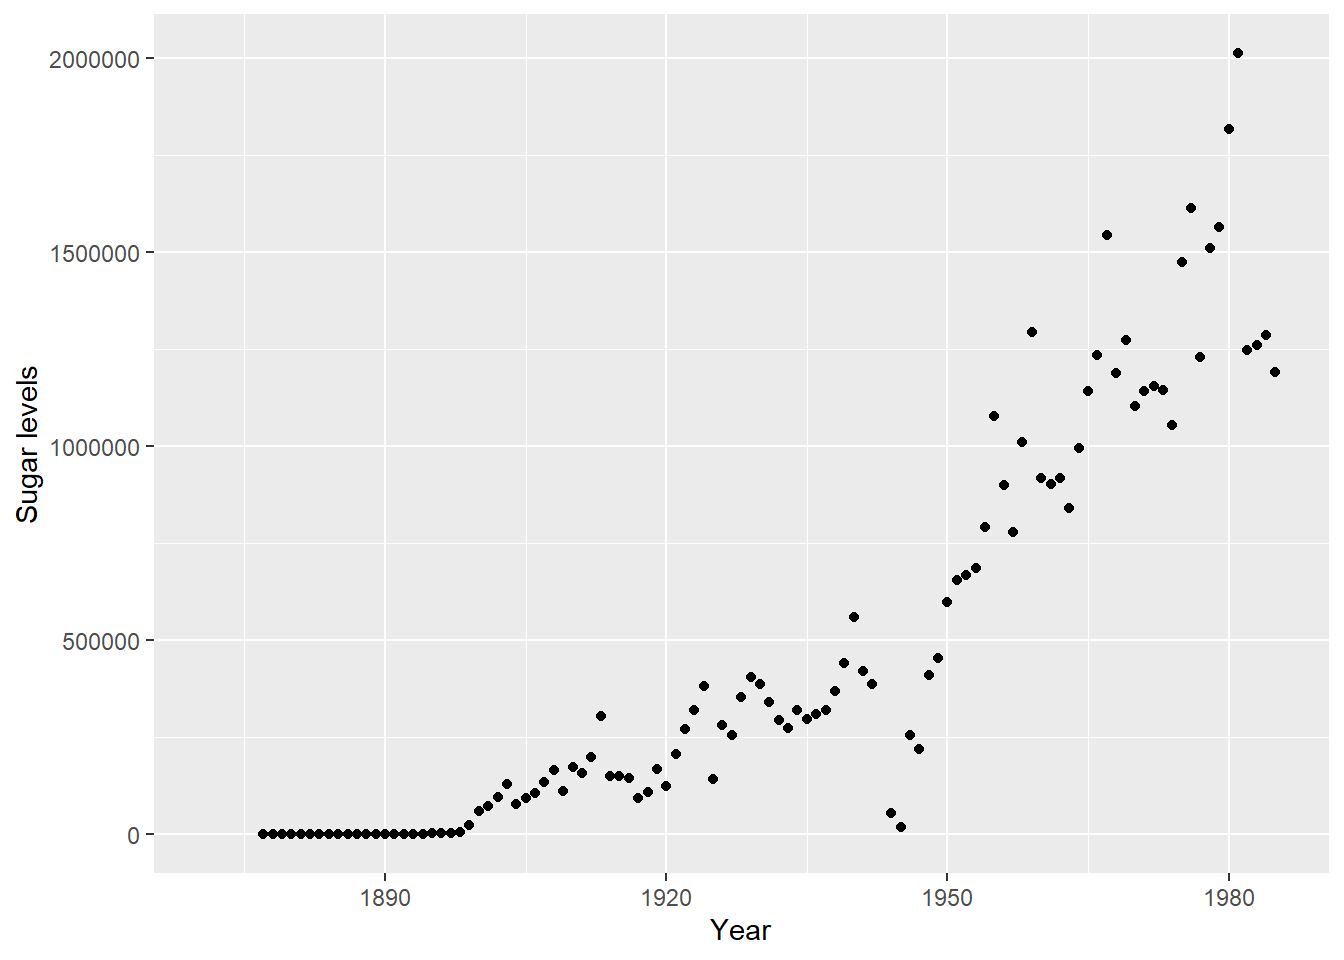
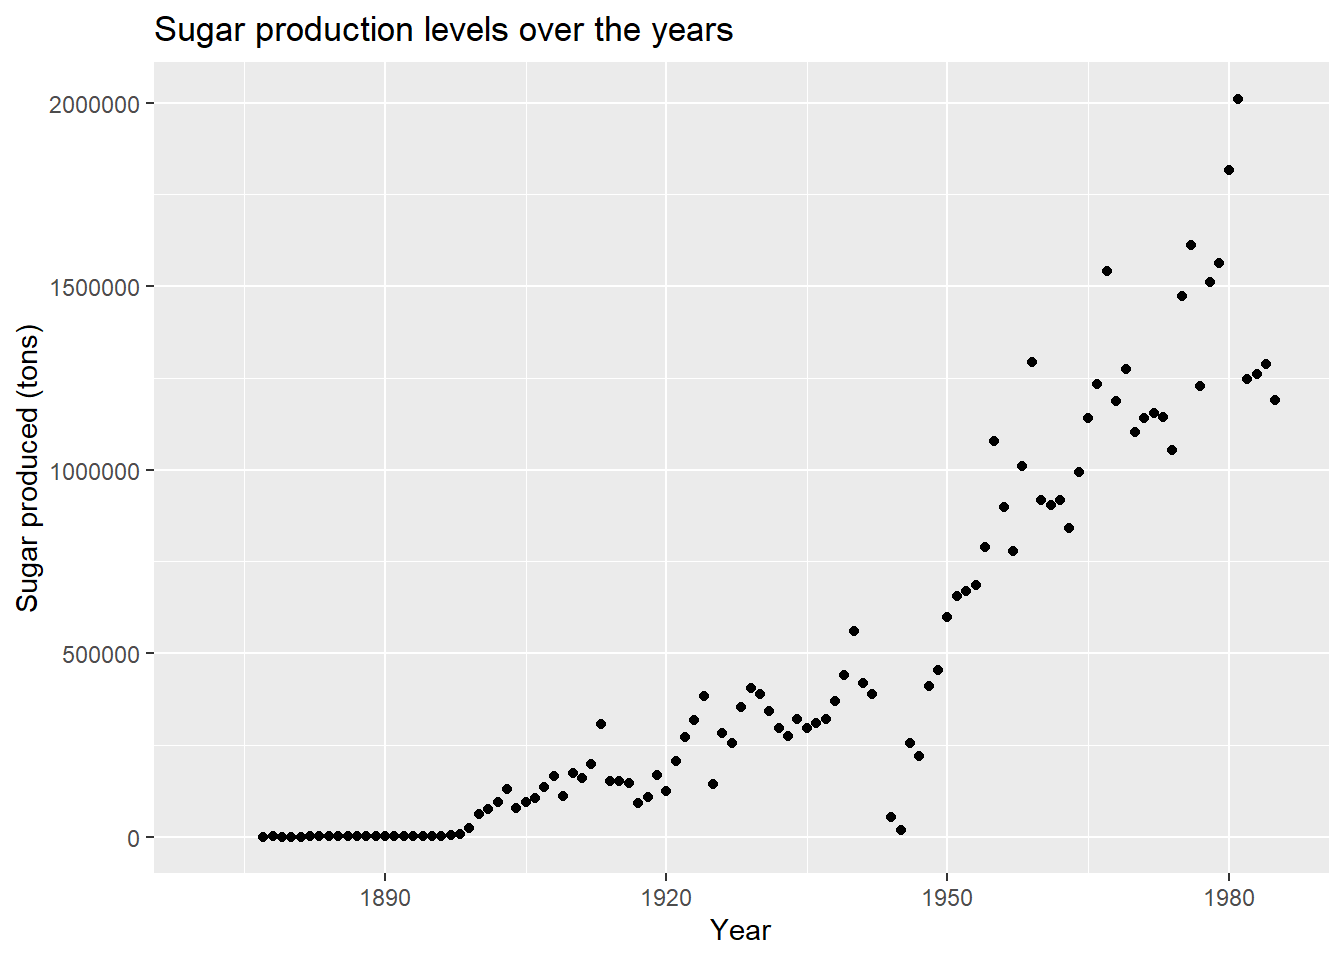
visual cleanup

diff --git a/docs/food_beverages_tt.html b/docs/food_beverages_tt.html
@@ -29,41 +29,6 @@ ul.task-list li input[type="checkbox"] {
   margin: 0 0.8em 0.2em -1em; /* quarto-specific, see https://github.com/quarto-dev/quarto-cli/issues/4556 */ 
   vertical-align: middle;
 }
-/* CSS for syntax highlighting */
-html { -webkit-text-size-adjust: 100%; }
-pre > code.sourceCode { white-space: pre; position: relative; }
-pre > code.sourceCode > span { display: inline-block; line-height: 1.25; }
-pre > code.sourceCode > span:empty { height: 1.2em; }
-.sourceCode { overflow: visible; }
-code.sourceCode > span { color: inherit; text-decoration: inherit; }
-div.sourceCode { margin: 1em 0; }
-pre.sourceCode { margin: 0; }
-@media screen {
-div.sourceCode { overflow: auto; }
-}
-@media print {
-pre > code.sourceCode { white-space: pre-wrap; }
-pre > code.sourceCode > span { text-indent: -5em; padding-left: 5em; }
-}
-pre.numberSource code
-  { counter-reset: source-line 0; }
-pre.numberSource code > span
-  { position: relative; left: -4em; counter-increment: source-line; }
-pre.numberSource code > span > a:first-child::before
-  { content: counter(source-line);
-    position: relative; left: -1em; text-align: right; vertical-align: baseline;
-    border: none; display: inline-block;
-    -webkit-touch-callout: none; -webkit-user-select: none;
-    -khtml-user-select: none; -moz-user-select: none;
-    -ms-user-select: none; user-select: none;
-    padding: 0 4px; width: 4em;
-  }
-pre.numberSource { margin-left: 3em;  padding-left: 4px; }
-div.sourceCode
-  {   }
-@media screen {
-pre > code.sourceCode > span > a:first-child::before { text-decoration: underline; }
-}
 </style>
 
 
@@ -206,18 +171,6 @@ pre > code.sourceCode > span > a:first-child::before { text-decoration: underlin
 
 
 <div class="cell">
-<div class="code-copy-outer-scaffold"><div class="sourceCode cell-code" id="cb1"><pre class="sourceCode r code-with-copy"><code class="sourceCode r"><span id="cb1-1"><a href="#cb1-1" aria-hidden="true" tabindex="-1"></a>food_beverages <span class="ot">&lt;-</span> readr<span class="sc">::</span><span class="fu">read_csv</span>(<span class="st">'https://raw.githubusercontent.com/rfordatascience/tidytuesday/main/data/2026/2026-05-05/food_beverages.csv'</span>, <span class="at">show_col_types =</span> <span class="cn">FALSE</span>)</span>
-<span id="cb1-2"><a href="#cb1-2" aria-hidden="true" tabindex="-1"></a></span>
-<span id="cb1-3"><a href="#cb1-3" aria-hidden="true" tabindex="-1"></a><span class="fu">ggplot</span>(food_beverages, <span class="fu">aes</span>(<span class="at">x =</span> Year, <span class="at">y =</span> Sugar)) <span class="sc">+</span></span>
-<span id="cb1-4"><a href="#cb1-4" aria-hidden="true" tabindex="-1"></a>    <span class="fu">geom_point</span>() <span class="sc">+</span> </span>
-<span id="cb1-5"><a href="#cb1-5" aria-hidden="true" tabindex="-1"></a>    <span class="fu">labs</span>(</span>
-<span id="cb1-6"><a href="#cb1-6" aria-hidden="true" tabindex="-1"></a>        <span class="at">x =</span> <span class="st">"Year"</span>,</span>
-<span id="cb1-7"><a href="#cb1-7" aria-hidden="true" tabindex="-1"></a>        <span class="at">y =</span> <span class="st">"Sugar levels"</span></span>
-<span id="cb1-8"><a href="#cb1-8" aria-hidden="true" tabindex="-1"></a>    )</span></code></pre></div><button title="Copy to Clipboard" class="code-copy-button"><i class="bi"></i></button></div>
-<div class="cell-output cell-output-stderr">
-<pre><code>Warning: Removed 7 rows containing missing values or values outside the scale range
-(`geom_point()`).</code></pre>
-</div>
 <div class="cell-output-display">
 <div>
 <figure class="figure">
